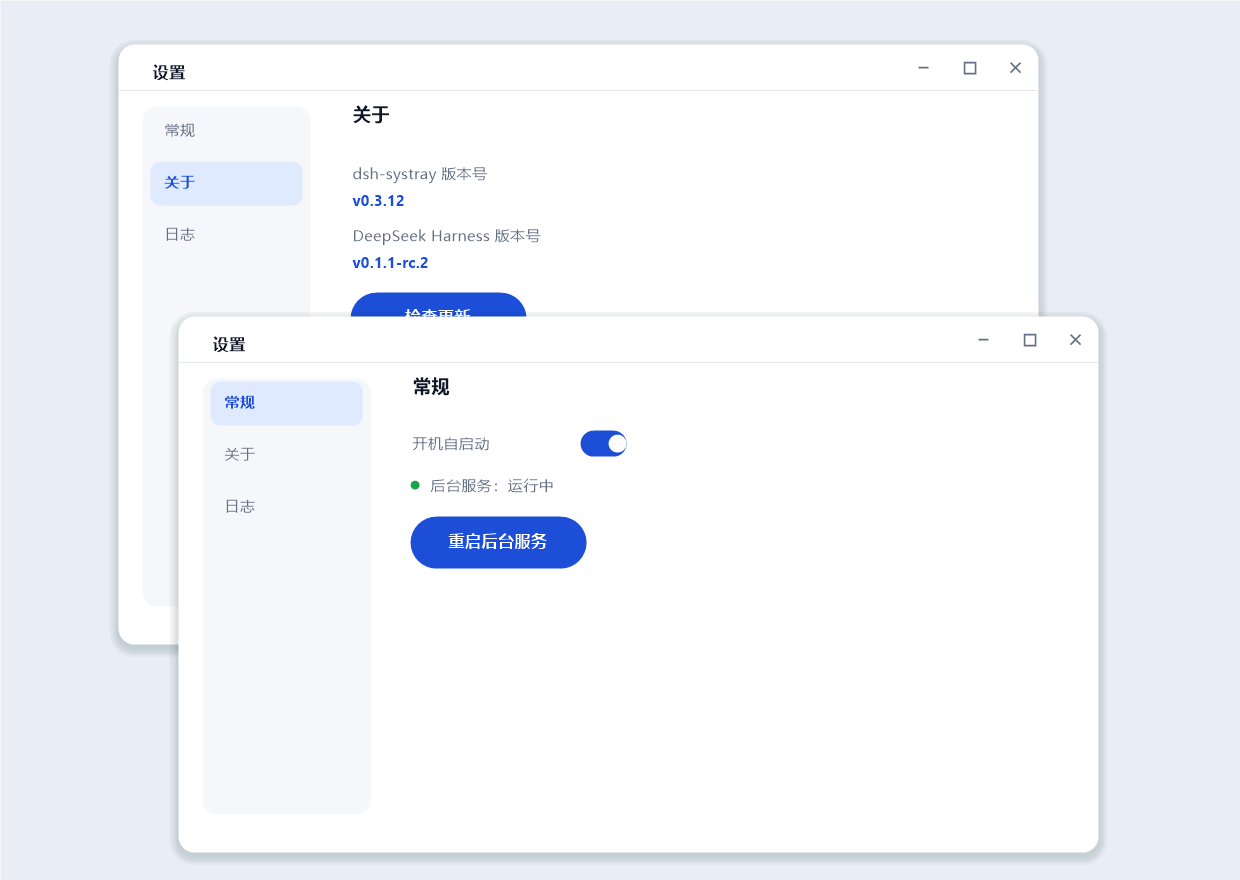
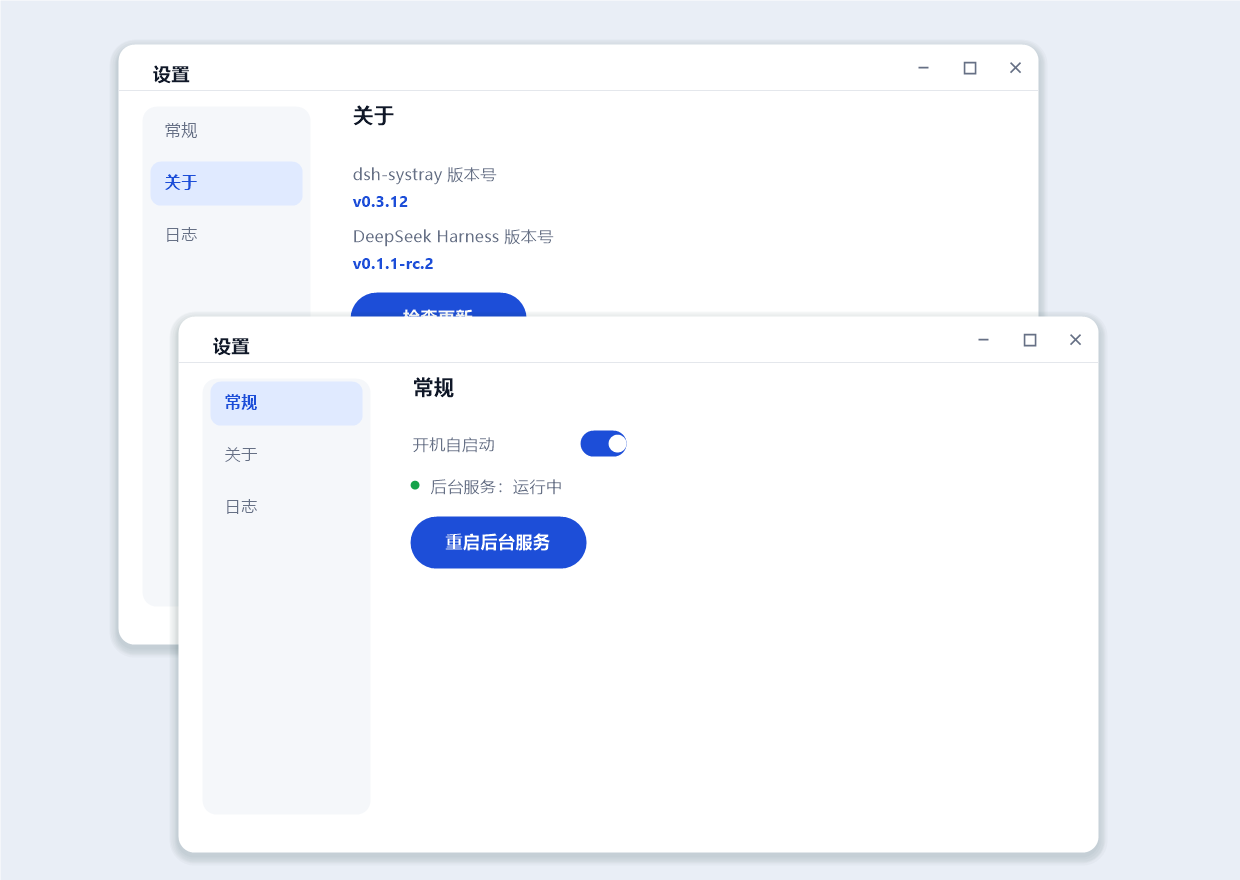
style(ui): 全局字体调大提升可读性——设置页标题19/正文15/小字13/等宽14，进度窗口标题20/状态15，弹窗消息与按钮15(按钮高34/宽92)，macOS 同步(常规/关于/版本/日志/表格 各+1~2)；截图 mock 字体同步

diff --git a/settings_darwin.m b/settings_darwin.m
@@ -76,7 +76,7 @@ static DSHSetController *g_ctrl = nil;
         cell.identifier = cid;
         NSTextField *tf = [NSTextField labelWithString:@""];
         tf.frame = NSMakeRect(10, 3, 130, 20);
-        tf.font = [NSFont systemFontOfSize:13];
+        tf.font = [NSFont systemFontOfSize:14];
         cell.textField = tf;
         [cell addSubview:tf];
     }
@@ -183,9 +183,9 @@ static DSHSetController *g_ctrl = nil;
 
     // 常规面板：开机自启动开关
     self.generalPane = [[NSView alloc] initWithFrame:NSMakeRect(160, 0, 400, 360)];
-    [self addLabel:@"常规" font:[NSFont systemFontOfSize:16 weight:NSFontWeightSemibold] color:nil frame:NSMakeRect(0, 316, 300, 24) to:self.generalPane];
-    [self addLabel:@"开机自启动" font:[NSFont systemFontOfSize:14] color:nil frame:NSMakeRect(0, 270, 200, 22) to:self.generalPane];
-    [self addLabel:@"登录系统时自动启动托盘程序" font:[NSFont systemFontOfSize:12] color:[NSColor secondaryLabelColor] frame:NSMakeRect(0, 248, 320, 18) to:self.generalPane];
+    [self addLabel:@"常规" font:[NSFont systemFontOfSize:18 weight:NSFontWeightSemibold] color:nil frame:NSMakeRect(0, 316, 300, 24) to:self.generalPane];
+    [self addLabel:@"开机自启动" font:[NSFont systemFontOfSize:15] color:nil frame:NSMakeRect(0, 270, 220, 24) to:self.generalPane];
+    [self addLabel:@"登录系统时自动启动托盘程序" font:[NSFont systemFontOfSize:13] color:[NSColor secondaryLabelColor] frame:NSMakeRect(0, 248, 320, 18) to:self.generalPane];
 
     self.autoSwitch = [[NSButton alloc] initWithFrame:NSMakeRect(310, 268, 60, 24)];
     [self.autoSwitch setButtonType:NSButtonTypeSwitch];
@@ -205,7 +205,7 @@ static DSHSetController *g_ctrl = nil;
     [svcAttr addAttribute:NSForegroundColorAttributeName value:svcDot range:NSMakeRange(0, 1)];
     [svcAttr addAttribute:NSForegroundColorAttributeName value:[NSColor secondaryLabelColor] range:NSMakeRange(2, svcAttr.length - 2)];
     NSTextField *svcLabel = [NSTextField labelWithAttributedString:svcAttr];
-    svcLabel.font = [NSFont systemFontOfSize:12];
+    svcLabel.font = [NSFont systemFontOfSize:13];
     svcLabel.frame = NSMakeRect(0, 210, 320, 18);
     [self.generalPane addSubview:svcLabel];
 
@@ -218,18 +218,18 @@ static DSHSetController *g_ctrl = nil;
 
     // 关于面板：dsh-systray 版本号 + DeepSeek Harness 版本号 + 检查更新
     self.aboutPane = [[NSView alloc] initWithFrame:NSMakeRect(160, 0, 400, 360)];
-    [self addLabel:@"关于" font:[NSFont systemFontOfSize:16 weight:NSFontWeightSemibold] color:nil frame:NSMakeRect(0, 316, 300, 24) to:self.aboutPane];
-    [self addLabel:@"dsh-systray 版本号" font:[NSFont systemFontOfSize:14] color:nil frame:NSMakeRect(0, 270, 220, 22) to:self.aboutPane];
+    [self addLabel:@"关于" font:[NSFont systemFontOfSize:18 weight:NSFontWeightSemibold] color:nil frame:NSMakeRect(0, 316, 300, 24) to:self.aboutPane];
+    [self addLabel:@"dsh-systray 版本号" font:[NSFont systemFontOfSize:15] color:nil frame:NSMakeRect(0, 270, 220, 24) to:self.aboutPane];
     [self addLabel:[NSString stringWithFormat:@"%s", ver]
-               font:[NSFont systemFontOfSize:16 weight:NSFontWeightSemibold]
+               font:[NSFont systemFontOfSize:18 weight:NSFontWeightSemibold]
               color:[NSColor colorWithCalibratedRed:0.114 green:0.306 blue:0.847 alpha:1.0]
-              frame:NSMakeRect(0, 244, 220, 24)
+              frame:NSMakeRect(0, 244, 220, 26)
                   to:self.aboutPane];
-    [self addLabel:@"DeepSeek Harness 版本号" font:[NSFont systemFontOfSize:14] color:nil frame:NSMakeRect(0, 214, 240, 20) to:self.aboutPane];
+    [self addLabel:@"DeepSeek Harness 版本号" font:[NSFont systemFontOfSize:15] color:nil frame:NSMakeRect(0, 214, 240, 22) to:self.aboutPane];
     [self addLabel:[NSString stringWithFormat:@"%s", hver]
-               font:[NSFont systemFontOfSize:16 weight:NSFontWeightSemibold]
+               font:[NSFont systemFontOfSize:18 weight:NSFontWeightSemibold]
               color:[NSColor colorWithCalibratedRed:0.114 green:0.306 blue:0.847 alpha:1.0]
-              frame:NSMakeRect(0, 190, 220, 24)
+              frame:NSMakeRect(0, 190, 220, 26)
                   to:self.aboutPane];
 
     NSButton *checkBtn = [[NSButton alloc] initWithFrame:NSMakeRect(0, 146, 120, 32)];
@@ -241,7 +241,7 @@ static DSHSetController *g_ctrl = nil;
 
     // 日志面板：只读、可复制、自动滚动
     self.logPane = [[NSView alloc] initWithFrame:NSMakeRect(160, 0, 400, 360)];
-    [self addLabel:@"日志（只读，可复制）" font:[NSFont systemFontOfSize:13] color:[NSColor secondaryLabelColor] frame:NSMakeRect(0, 322, 320, 20) to:self.logPane];
+    [self addLabel:@"日志（只读，可复制）" font:[NSFont systemFontOfSize:14] color:[NSColor secondaryLabelColor] frame:NSMakeRect(0, 322, 320, 20) to:self.logPane];
 
     self.logPopup = [[NSPopUpButton alloc] initWithFrame:NSMakeRect(0, 288, 130, 26)];
     [self.logPopup addItemsWithTitles:@[@"app.log", @"server.log"]];
@@ -260,7 +260,7 @@ static DSHSetController *g_ctrl = nil;
     NSTextView *tv = [[NSTextView alloc] initWithFrame:NSMakeRect(0, 0, 392, 250)];
     tv.editable = NO;
     tv.selectable = YES;
-    tv.font = [NSFont monospacedSystemFontOfSize:11 weight:NSFontWeightRegular];
+    tv.font = [NSFont monospacedSystemFontOfSize:12 weight:NSFontWeightRegular];
     logSV.documentView = tv;
     logSV.hasVerticalScroller = YES;
     logSV.autohidesScrollers = YES;

diff --git a/splash.go b/splash.go
@@ -384,8 +384,8 @@ func createSplashWindow(statusText string) uintptr {
 	pRegisterClassExW.Call(uintptr(unsafe.Pointer(&wc)))
 
 	titleText, _ := syscall.UTF16PtrFromString("DeepSeek Harness")
-	splashTitleFont = makeFont(18, 600)
-	splashStatusFont = makeFont(14, 400)
+	splashTitleFont = makeFont(20, 600)
+	splashStatusFont = makeFont(15, 400)
 	splashTitle = "DeepSeek Harness"
 	splashTextMu.Lock()
 	splashStatus = statusText
@@ -526,8 +526,8 @@ const (
 
 	dlgPad    = 20
 	dlgW      = 380
-	dlgBtnH   = 30
-	dlgBtnW   = 84
+	dlgBtnH   = 34
+	dlgBtnW   = 92
 	dlgBtnGap = 16
 
 	dialogColorMsg   = 0x00857066 // #667085
@@ -755,8 +755,8 @@ func runModernDialog(caption, message string, buttons []string, primary int) int
 	dialogPrimary = primary
 	dialogButtons = nil
 	dialogResult = -1
-	dialogMsgFont = makeFont(14, 400)
-	dialogBtnFont = makeFont(14, 600)
+	dialogMsgFont = makeFont(15, 400)
+	dialogBtnFont = makeFont(15, 600)
 
 	resultCh := make(chan int, 1)
 	go func() {

diff --git a/settings_windows.go b/settings_windows.go
@@ -666,11 +666,11 @@ func createSettingsWindow() uintptr {
 		settingsClassReg = true
 	}
 
-	settingsFontTitle = makeFont(17, 600)
-	settingsFontBody = makeFont(14, 400)
-	settingsFontBold = makeFont(14, 600)
-	settingsFontSmall = makeFont(12, 400)
-	settingsFontMono = makeMonoFont(13)
+	settingsFontTitle = makeFont(19, 600)
+	settingsFontBody = makeFont(15, 400)
+	settingsFontBold = makeFont(15, 600)
+	settingsFontSmall = makeFont(13, 400)
+	settingsFontMono = makeMonoFont(14)
 	settingsSideBrush, _, _ = pCreateSolidBrush.Call(stColorSidebarBg)
 
 	titleText, _ := syscall.UTF16PtrFromString("设置")
